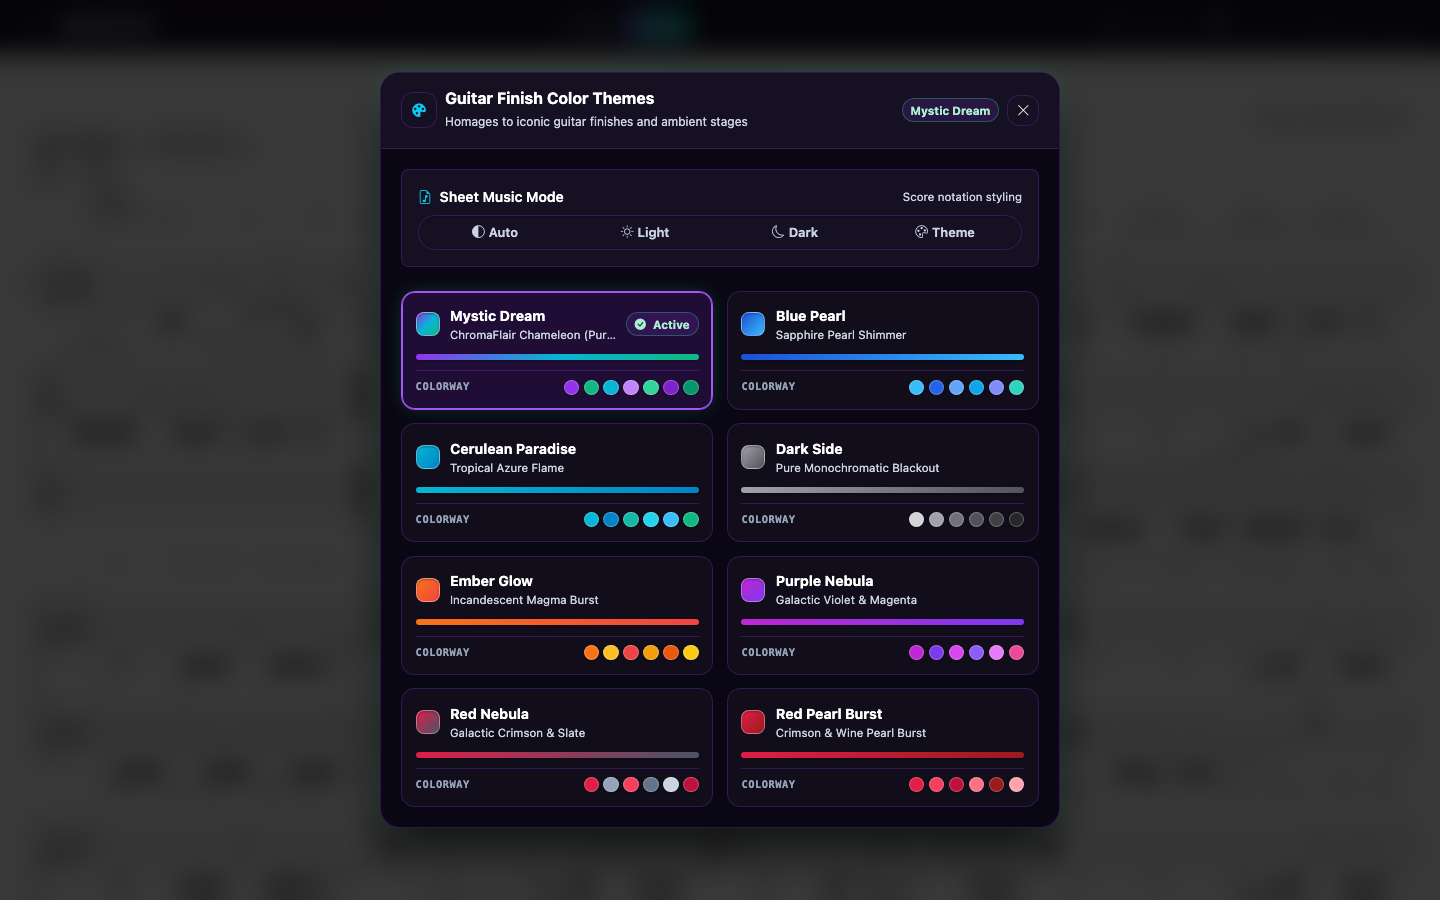
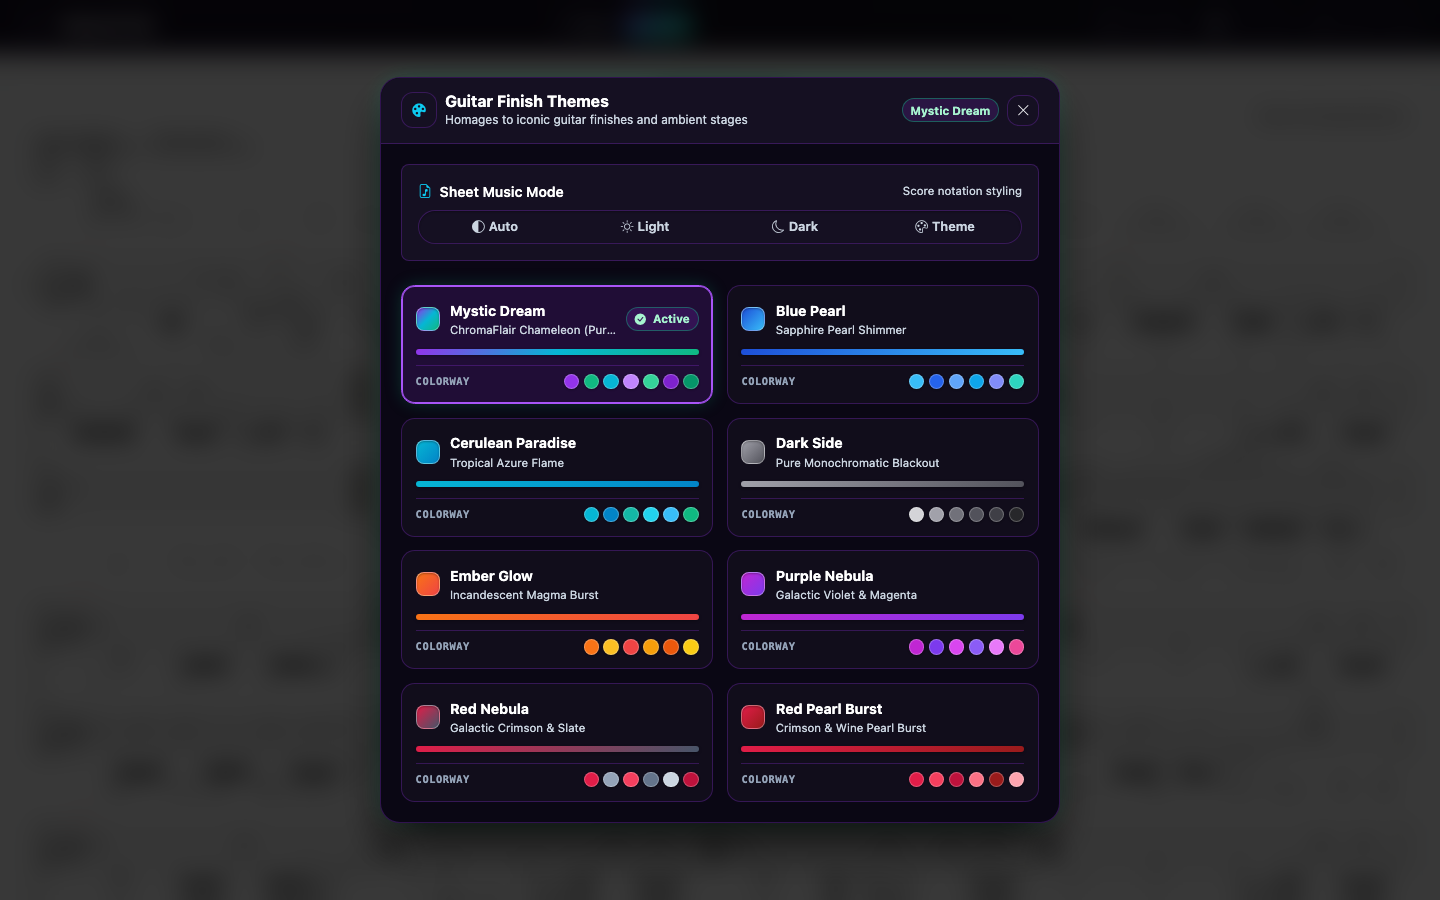
Fix mobile theme modal close button overflow and enforce light mode on PDF exports

diff --git a/app/index.html b/app/index.html
@@ -197,17 +197,17 @@
 <div id="themeModal" class="theme-modal-backdrop">
   <div class="theme-modal-card">
     <div class="theme-modal-header">
-      <div class="d-flex align-items-center gap-2">
-        <div class="brand-btn p-2" style="width: 36px; height: 36px;">
+      <div class="theme-modal-title-group">
+        <div class="brand-btn p-2 theme-modal-icon" style="width: 36px; height: 36px;">
           <i class="bi-palette-fill text-info"></i>
         </div>
-        <div>
-          <h6 class="mb-0 fw-bold text-white">Guitar Finish Color Themes</h6>
-          <small class="text-muted" style="font-size: 0.75rem;">Homages to iconic guitar finishes and ambient stages</small>
+        <div class="theme-modal-titles">
+          <h6 class="mb-0 fw-bold text-white text-truncate">Guitar Finish Themes</h6>
+          <small class="text-muted d-none d-sm-block" style="font-size: 0.75rem;">Homages to iconic guitar finishes and ambient stages</small>
         </div>
       </div>
-      <div class="d-flex align-items-center gap-2">
-        <span id="themeModalActiveBadge" class="theme-active-pill">Mystic Dream</span>
+      <div class="theme-modal-actions">
+        <span id="themeModalActiveBadge" class="theme-active-pill d-none d-sm-inline-flex">Mystic Dream</span>
         <button type="button" class="brand-btn theme-modal-close-btn p-1 px-2" aria-label="Close modal">
           <i class="bi-x-lg"></i>
         </button>

diff --git a/app/style.css b/app/style.css
@@ -792,12 +792,45 @@ input[type=range]::-webkit-slider-thumb:hover {
 }
 
 .theme-modal-header {
-  padding: 1rem 1.25rem;
+  padding: 0.85rem 1.25rem;
   border-bottom: 1px solid var(--border-subtle);
   display: flex;
   align-items: center;
   justify-content: space-between;
+  gap: 0.75rem;
   background: var(--bg-card-solid);
+  min-width: 0;
+}
+
+.theme-modal-title-group {
+  display: flex;
+  align-items: center;
+  gap: 0.5rem;
+  min-width: 0;
+  flex: 1;
+}
+
+.theme-modal-icon {
+  flex-shrink: 0;
+}
+
+.theme-modal-titles {
+  min-width: 0;
+  flex: 1;
+}
+
+.theme-modal-actions {
+  display: flex;
+  align-items: center;
+  gap: 0.5rem;
+  flex-shrink: 0;
+}
+
+.theme-modal-close-btn {
+  flex-shrink: 0;
+  display: inline-flex;
+  align-items: center;
+  justify-content: center;
 }
 
 .theme-modal-body {

diff --git a/app/exportPdf.js b/app/exportPdf.js
@@ -9,6 +9,10 @@ async function svgToImage(svgElement, width, height) {
   svgClone.setAttribute('width', width.toString());
   svgClone.setAttribute('height', height.toString());
 
+  // Ensure any dark-mode/theme overrides are cleared so export is always clean light mode
+  svgClone.removeAttribute('class');
+  svgClone.style.filter = 'none';
+
   const xml = new XMLSerializer().serializeToString(svgClone);
   const blob = new Blob([xml], { type: 'image/svg+xml;charset=utf-8' });
   const url = URL.createObjectURL(blob);
